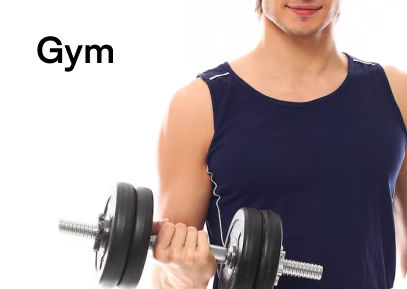
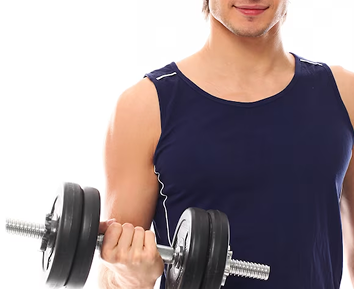
wip(categorygrid section): working on categorygrid secion to make responsive

diff --git a/src/pages/Home/Components/CategoryGrid.jsx b/src/pages/Home/Components/CategoryGrid.jsx
@@ -5,45 +5,49 @@ const CategoryGrid = () => {
   const Categories = [
     {
       id: 1,
+      title: "Casual",
       img: "/src/assets/images/casual.png",
       isLarge: false,
     },
 
     {
       id: 2,
+      title: "Formal",
       img: "/src/assets/images/formal.png",
       isLarge: true,
     },
 
     {
       id: 3,
+      title: "Party",
       img: "/src/assets/images/party.png",
       isLarge: true,
     },
 
     {
       id: 4,
+      title: "Gym",
       img: "/src/assets/images/gym.png",
       isLarge: false,
     },
   ]
 
   return (
-    <section className='relative flex justify-center py-10 px-15 '>
+    <section className='relative flex justify-center py-10 md:px-10 lg:px-15 '>
       <div className='max-w-7xl w-full bg-[#F0F0F0] rounded-4xl py-15'>
-        <div className='font-dm text-5xl font-extrabold flex justify-center pb-15 '>
+        <div className='font-dm text-4xl lg:text-5xl font-extrabold flex justify-center pb-15 '>
           <h1>BROWSE BY DRESS STYLE</h1>
         </div>
-        <div className='grid grid-cols-3 gap-5 px-20'>
+        <div className='grid grid-cols-3 gap-5 px-5 lg:px-20'>
           {Categories.map((category) => (
               <div
-                className={`relative h-70 rounded-4xl bg-cover bg-center bg-no-repeat ${
+                className={`relative h-[40vh] rounded-4xl bg-cover bg-center bg-no-repeat ${
                   category.isLarge ? "col-span-2" : "col-span-1"
                 }`}
                 key={category.id}
                 style={{ backgroundImage: `url(${category.img})` }}
               >
-                <div>{category.title}</div>
+                <div className="font-dm text-xl lg:text-3xl font-bold p-6">{category.title}</div>
               </div>
             ))}
         </div>
